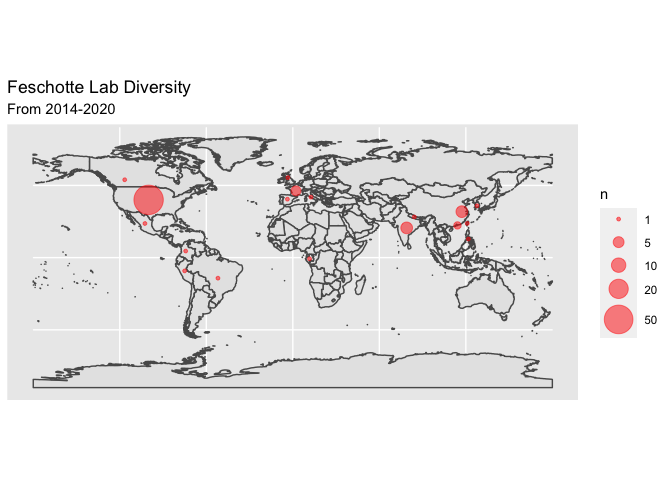
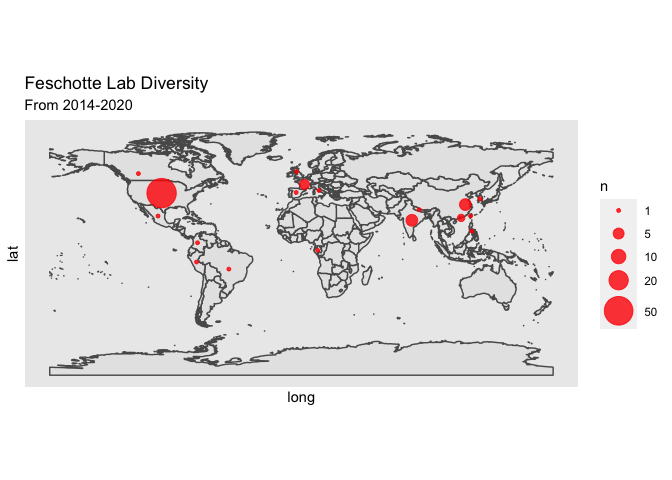
edit

diff --git a/world_map.md b/world_map.md
@@ -98,10 +98,23 @@ lab %>%
   summarize(n=n()) %>% 
   ggplot() +
   geom_sf(data = world) +
-  geom_point(aes(x=long, y=lat, size=n,color=6*n), color="red", fill="red", alpha=0.5, shape=21)+
+  geom_point(aes(x=long, y=lat, size=n,color=6*n), color="red", fill="red", alpha=0.8, shape=21)+
   scale_size(range=c(1,10),breaks=c(1,5,10,20,50)) +
   labs(title= "Feschotte Lab Diversity", subtitle="From 2014-2020")+
-  theme(axis.title.y = element_blank(), axis.title.x = element_blank())
+  theme(panel.grid = element_blank())
 ```
 
 ![](world_map_files/figure-markdown_github/unnamed-chunk-4-1.png)
+
+``` r
+  theme(axis.title.y = element_blank(), axis.title.x = element_blank())
+```
+
+    ## List of 2
+    ##  $ axis.title.x: list()
+    ##   ..- attr(*, "class")= chr [1:2] "element_blank" "element"
+    ##  $ axis.title.y: list()
+    ##   ..- attr(*, "class")= chr [1:2] "element_blank" "element"
+    ##  - attr(*, "class")= chr [1:2] "theme" "gg"
+    ##  - attr(*, "complete")= logi FALSE
+    ##  - attr(*, "validate")= logi TRUE
